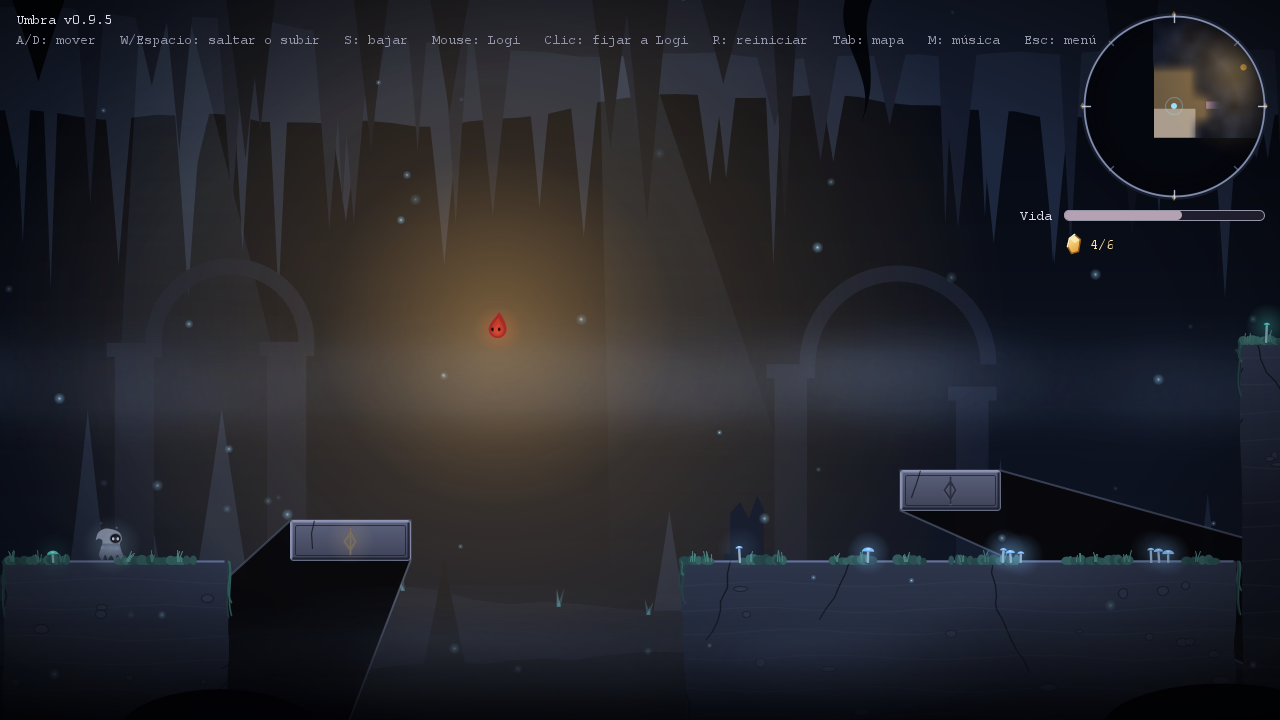
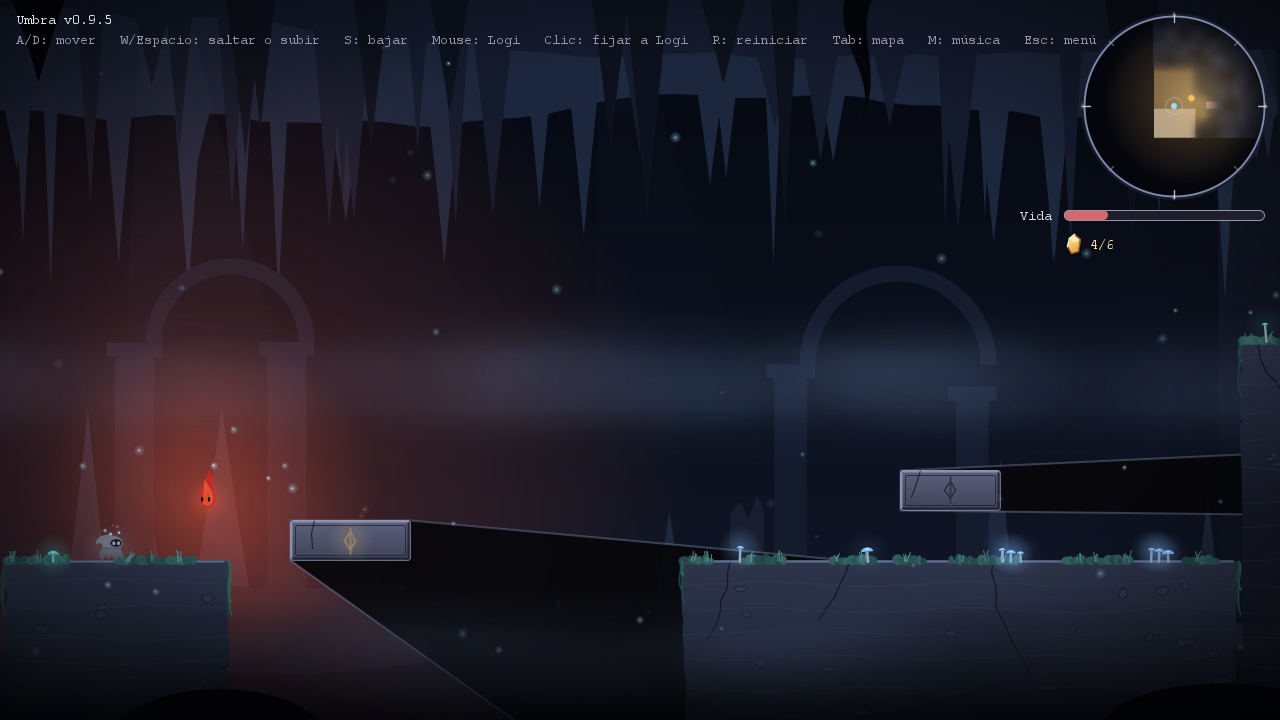
README y capturas: el arrebato sin sombra y con la luz quitando vida, y el mapa completo con los 6 fragmentos

diff --git a/README.md b/README.md
@@ -44,6 +44,9 @@ Los Pozos: columnas y tiros profundos, con la sombra de Logi como único camino.
 ![El mapa grande](capturas/mundo-4-mapa.png)
 El mapa grande (Tab): las zonas recorridas se iluminan, lo demás sigue en neblina y los fragmentos tomados quedan marcados.
 
+![El mapa grande, con toda la cueva](capturas/mundo-4b-mapa-completo.png)
+Toda la cueva: las cuatro zonas reveladas, la Cúpula incluida, y los 6 fragmentos tomados.
+
 ![Un fragmento vuela hacia Candil](capturas/mundo-5-fragmento.png)
 Al tomar un fragmento, vuela hacia Candil y aparece una línea de la historia; el contador sube.
 
@@ -53,7 +56,7 @@ Al tomar un fragmento, vuela hacia Candil y aparece una línea de la historia; e
 Con 3 fragmentos (izquierda) Logi se pone rojo; con 6 (derecha), de un rojo muy oscuro y con los ojos claros.
 
 ![Un arrebato: Logi tira hacia Candil](capturas/logi-2-arrebato.png)
-Un arrebato: Logi se suelta del ratón y tira hacia Candil, y la luz le quita vida.
+En pleno arrebato: Logi, rojo, ha tirado hasta quedar junto a Candil. Ya no hay sombra que lo cubra, y la barra de vida baja con la luz.
 
 **La sala del trono**
 
@@ -102,7 +105,7 @@ Proyecto final de **Graficación**.
 
 **Guardar la partida.** El menú tiene 3 espacios de partida. Elige uno con **W/S** o con el ratón y pulsa **Enter**: si está vacío empieza una partida nueva, y si no, sigue donde la dejaste. **Supr** borra una partida, siempre preguntando antes. El juego guarda solo al cruzar a otra zona, al volver al menú con **Esc** y al cerrar la ventana. Al continuar, Candil aparece en la última repisa firme que pisó. Después del final, la partida queda frente a la Cúpula. Los archivos van en `%APPDATA%\Umbra\`.
 
-**Logi se resiste.** Con cada fragmento que juntas, Logi te sigue más despacio y se oscurece: de naranja a rojo y, con los 6, a un rojo muy oscuro; el negro total de la llama queda para el final. Si dejas el ratón quieto un momento, se acerca solo a Candil. Y a ratos tiene un arrebato: la llama parpadea en rojo para avisar, se queda en su sitio un instante (el clic no lo fija) y luego tira hacia Candil. Con más fragmentos los arrebatos son más seguidos y más largos. Fijar a Logi con un clic te protege: mientras esté fijo no hay arrebato, y al soltarlo tienes un momento antes del siguiente. Sin fragmentos, Logi se comporta como siempre.
+**Logi se resiste.** Con cada fragmento que juntas, Logi te sigue más despacio y se oscurece: de naranja a rojo y, con los 6, a un rojo muy oscuro; el negro total de la llama queda para el final. Si dejas el ratón quieto un momento, se acerca solo a Candil. Y a ratos tiene un arrebato: la llama parpadea en rojo para avisar, se queda quieto un instante (el clic no lo fija) y luego tira hacia Candil: te deja sin sombra y su luz te quita vida poco a poco. Si Candil flotaba en una sombra sobre un hueco, puede caer. Logi se detiene a unos pasos, sin llegar a tocarlo: lo que daña es la luz, no el tirón. Con más fragmentos los arrebatos son más seguidos y más largos. Fijar a Logi con un clic te protege: mientras esté fijo no hay arrebato, y al soltarlo tienes un momento antes del siguiente. Sin fragmentos, Logi se comporta como siempre.
 
 **Candil y Logi cambian de forma.** Candil es un fantasma encapuchado y tiene una forma para cada acción: descansa, corre, salta, cae y flota. Logi también cambia: se estira como cometa cuando lo mueves rápido, se enrosca en espiral al subir y se calma cuando está quieto.
 
